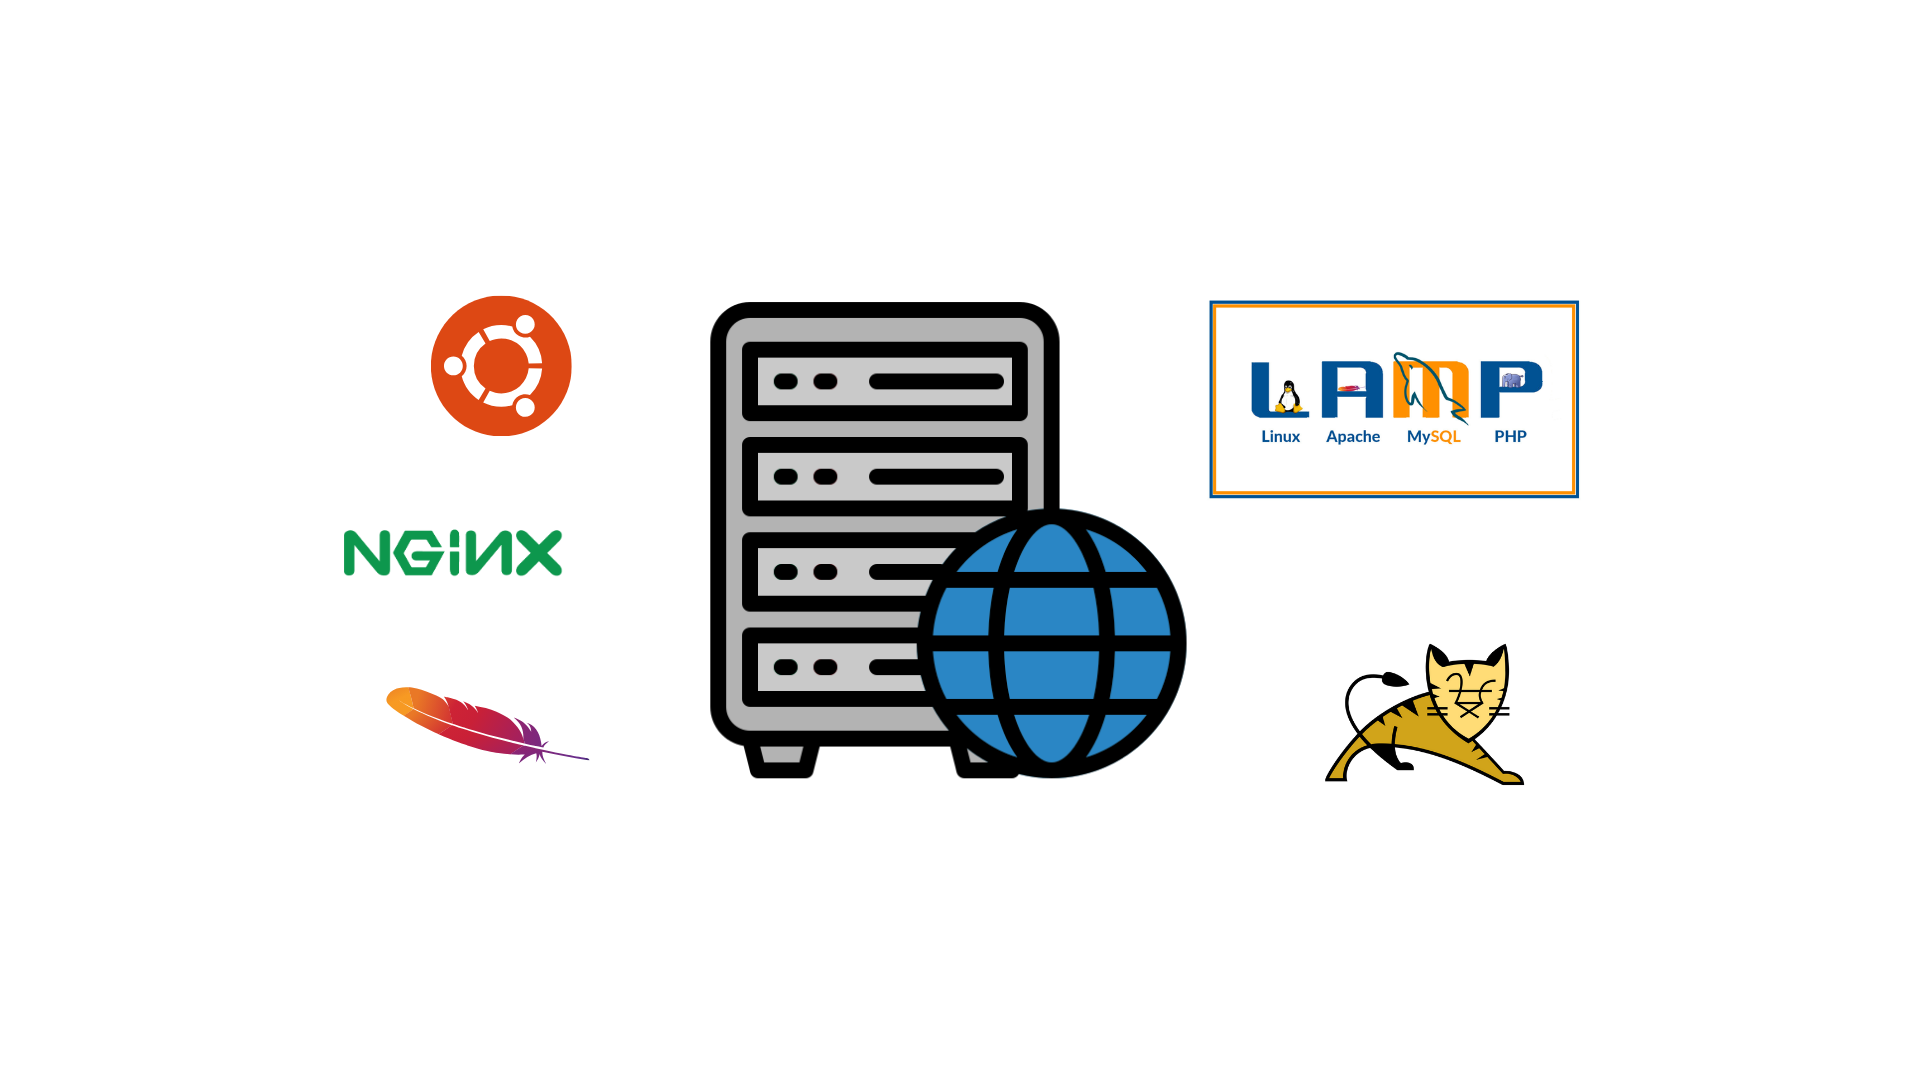
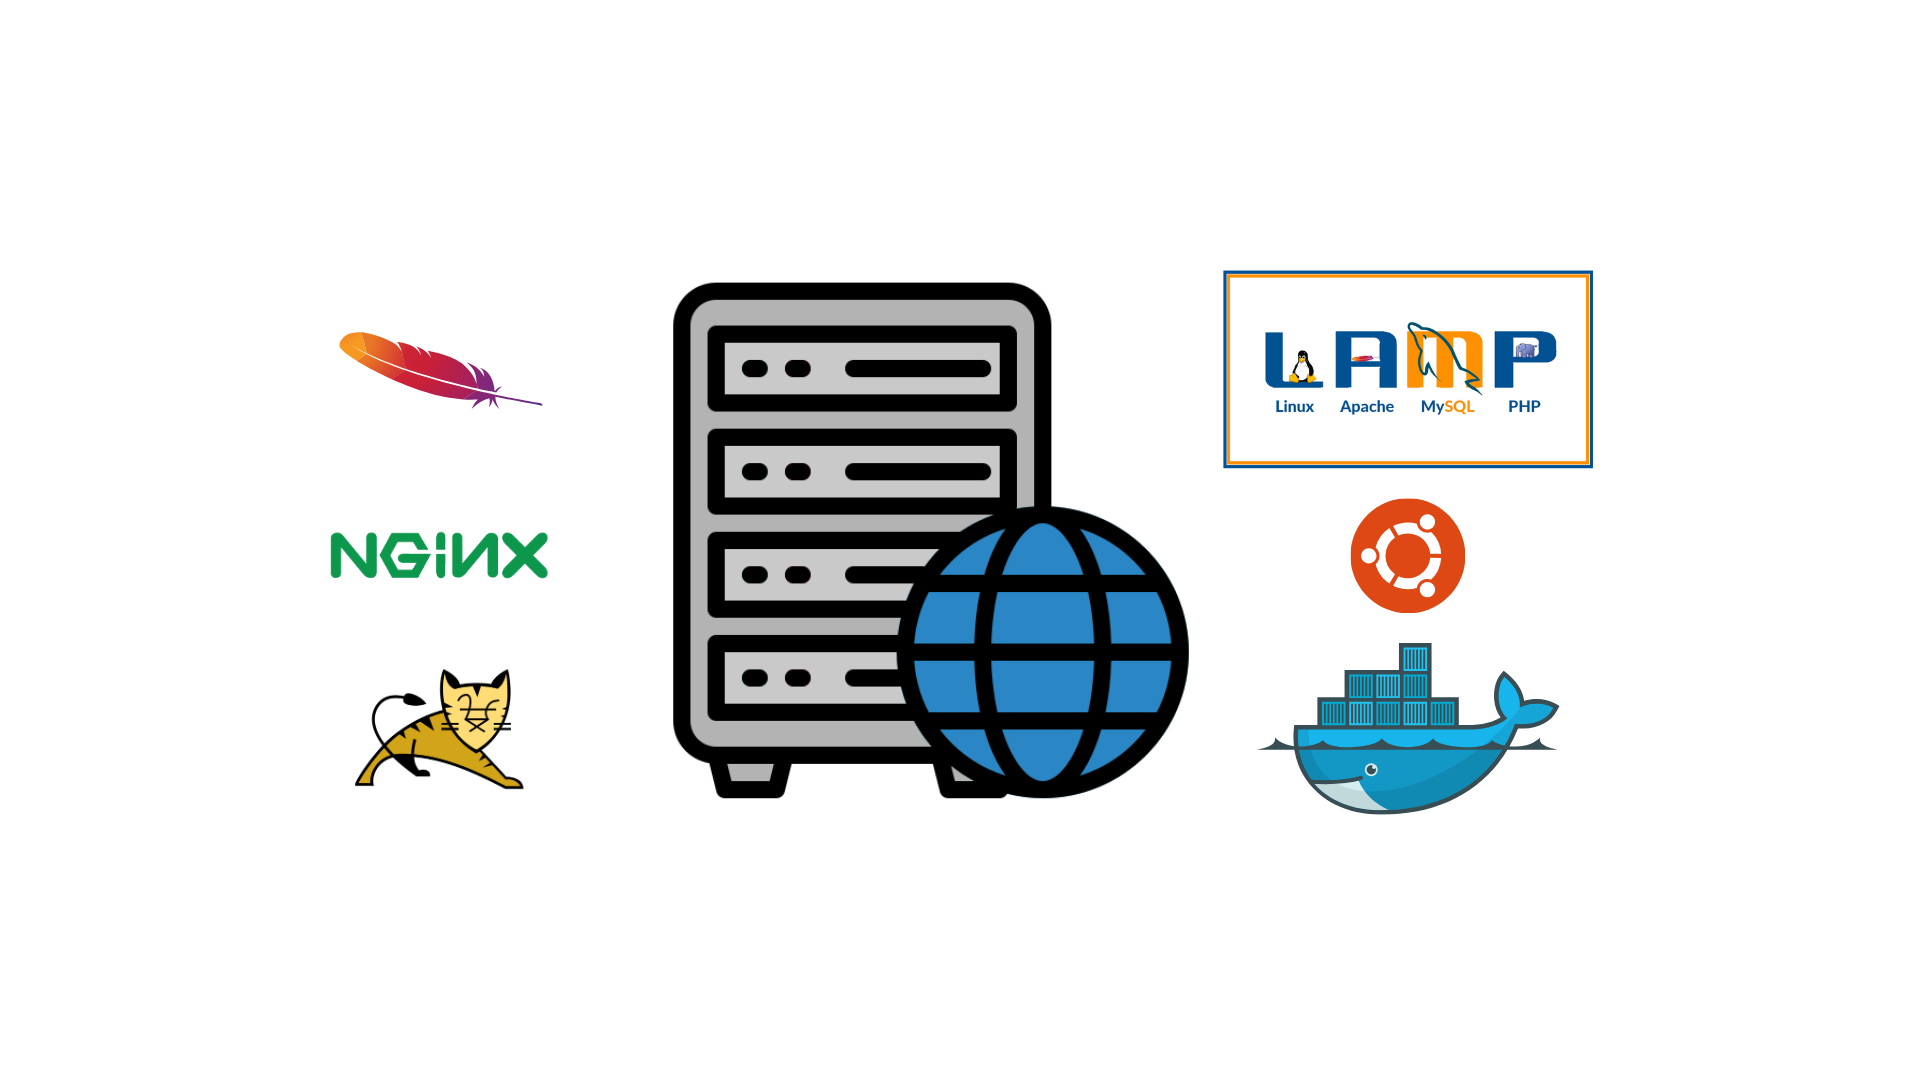
Added content to Server tab

diff --git a/src/components/TechProfile.js b/src/components/TechProfile.js
@@ -12,6 +12,7 @@ import database from '../assets/techprofile/genprog/rdbms.png';
 import mapsminer from '../assets/techprofile/automation/dataminer.gif';
 import scripting from '../assets/techprofile/automation/scripting.png';
 import servers from '../assets/techprofile/server/servers.png';
+import linux from '../assets/techprofile/server/linux.png';
 
 const TechProfile = () => {
 
@@ -22,7 +23,7 @@ const TechProfile = () => {
         <>
           <p>I have contributed to the full stack development of web GIS applications,
             effectively displaying geospatial data primarily utilizing open-source web mapping libraries, as well as spatial servers and databases.
-            <br /><Divider /><b>Expertise: React.js, Leaflet.js, GeoServer</b></p>
+            <br /></p><Divider /><p><b>Expertise: React.js, Leaflet.js, GeoServer</b></p>
         </>,
       image: webgis,
     },
@@ -31,7 +32,7 @@ const TechProfile = () => {
       content: <>
         <p>Mastering web fundamentals is crucial in today's landscape. Understanding the backbone of the web
           allows me to harness powerful development frameworks and build high-quality web applications.
-          <br /><Divider /><b>Expertise: HTML, CSS, JavaScript, React.js, Node.js</b></p>
+          <br /></p><Divider /><p><b>Expertise: HTML, CSS, JavaScript, React.js, Node.js</b></p>
       </>,
       image: webdev,
     },
@@ -40,7 +41,7 @@ const TechProfile = () => {
       content: <>
         <p>Facilitating information exchange between different systems seems deeply fascinating to me.
           While I currently lack professional experience, I am practicing developing APIs with Java and Spring Boot.
-          <br /><Divider /><b>Expertise: Java, Spring Boot, Node.js, Express.js</b></p>
+          <br /></p><Divider /><p><b>Expertise: Java, Spring Boot, Node.js, Express.js</b></p>
       </>,
       image: backend,
     }
@@ -53,7 +54,7 @@ const TechProfile = () => {
         <>
           <p>I have experience developing a variety of desktop applications, ranging from command line tools to GUI software systems with complex features.
           <br/><i>Image:</i> Par👑king - A desktop parking management solution (Java).
-            <br /><Divider /><b>Expertise: C++, C# .NET, Java</b></p>
+            <br /></p><Divider /><p><b>Expertise: C++, C# .NET, Java</b></p>
         </>,
       image: parking,
     },
@@ -62,7 +63,7 @@ const TechProfile = () => {
       content: <>
         <p>I am a big fan of Occam's razor. Equipped with the most appropriate data structures and algorithms for each business case,
           I aim for minimal complexity, delivering efficient, easy-to-use software solutions.
-          <br /><Divider /><b>Expertise: Data Structures, Algorithm Design & Optimization</b></p>
+          <br /></p><Divider /><p><b>Expertise: Data Structures, Algorithm Design & Optimization</b></p>
       </>,
       image: algorithms,
     },
@@ -71,7 +72,7 @@ const TechProfile = () => {
       content: <>
         <p> I have worked with relational databases like MySQL and PostgreSQL, and plan to explore NoSQL and cloud alternatives soon.
           <br /><i>Image: e-Commerce RDBMS (MySQL, MS Access).</i>
-          <br /><Divider /><b>Expertise: Database design, MySQL, PostgreSQL</b></p>
+          <br /></p><Divider /><p><b>Expertise: Database design, MySQL, PostgreSQL</b></p>
       </>,
       image: database,
     }
@@ -83,8 +84,8 @@ const TechProfile = () => {
       content:
         <>
           <p>Focusing on efficiency and productivity, I specialize in automating manual tasks and helping save workhours and effort.
-            <br/><i>Video: Google Maps data mining tool</i>
-            <br/><Divider /><b>Expertise: C++, C# .NET, Java</b></p>
+            <br/><i>Video: Google Maps data mining tool (C# .NET  & Selenium)</i>
+            <br/></p><Divider /><p><b>Expertise: C++, C# .NET, Java</b></p>
         </>,
       image: mapsminer,
     },
@@ -92,7 +93,7 @@ const TechProfile = () => {
       title: 'Scripting',
       content: <>
         <p>With the help of scripting languages and tools, I am able to automate a variety of processes which may in turn improve software development, business operations or other critical parts of production.
-          <br/><Divider /><b>Expertise: Bash, JavaScript, Python</b></p>
+          <br/></p><Divider /><p><b>Expertise: Bash, JavaScript, Python</b></p>
       </>,
       image: scripting,
     },
@@ -100,33 +101,26 @@ const TechProfile = () => {
 
   const ServerItems = [
     {
-      title: 'Virtualization',
-      content:
-        <>
-          <p>ITEM 1
-            <br /><Divider /><b>Expertise:</b></p>
-        </>,
-      image: servers,
-    },
-    {
       title: 'Server Configuration',
       content:
         <>
-          <p>ITEM 2
-            <br /><Divider /><b>Expertise:</b></p>
+          <p>My familiarity with the Linux operating system combined with a variety of server solutions allows me to have an active part in the end-to-end development of software.
+            <br /></p><Divider /><p><b>Expertise: LAMP Stack, Ubuntu Server, Linux/Unix</b></p>
         </>,
       image: servers,
     },
     {
-      title: 'Server Orchestration',
+      title: 'Virtualization',
       content:
         <>
-          <p>ITEM 3
-            <br /><Divider /><b>Expertise:</b></p>
+          <p>Virtualization is one of the great gifts of modern technology. I aim to be proficient with tools that help us produce secure, scalable systems.
+            <br/><i>Image: Jitsi Meet server, part of virtual e-Learning server ecosystem </i>
+            <br /></p><Divider /><p><b>Expertise: Docker, VirtualBox</b></p>
         </>,
-      image: servers,
+      image: linux,
     },
   ];
+
   const tabs = [
     {
       key: 1,
@@ -148,7 +142,7 @@ const TechProfile = () => {
     },
     {
       key: 4,
-      label: `Server Administration & Configuration`,
+      label: `Server Technologies`,
       children: <CardGrid items={ServerItems}/>,
       icon: <LinuxOutlined />,
     },

diff --git a/src/App.js b/src/App.js
@@ -1,9 +1,3 @@
-import logo from './assets/logo-transparent-small.png';
-import code from './assets/code-small.png';
-import adventure from './assets/adventure.png';
-import face from './assets/face.jpg';
-import profile from './assets/profile.png';
-import smile from './assets/smile.png';
 import './App.css';
 import { useState, useEffect } from 'react';
 import { Image, Layout, Menu, Divider, FloatButton } from 'antd';
@@ -11,13 +5,12 @@ import Home from './components/Home';
 import TechProfile from './components/TechProfile';
 import Resume from './components/Resume'; // Import the Resume component
 import Contact from './components/Contact'; // Import the Contact component
-import { GithubFilled, LinkedinFilled, MailFilled, FileDoneOutlined, CodeOutlined, UserOutlined, InfoCircleOutlined, QuestionCircleOutlined } from '@ant-design/icons';
+import { GithubFilled, LinkedinFilled, MailFilled, FileDoneOutlined, CodeOutlined, UserOutlined, InfoCircleOutlined } from '@ant-design/icons';
 import patient from './assets/techprofile/chad.jpg';
 
-const { Header, Content, Footer, Sider } = Layout;
+const { Content, Sider } = Layout;
 
 function App() {
-  const [data, setData] = useState([]);
   const [currentPage, setCurrentPage] = useState('Home');
   const [isMobileMenuOpen, setIsMobileMenuOpen] = useState(false);
 
@@ -85,9 +78,9 @@ function App() {
               </Menu.Item>
             ))}
             <Menu.Item key={'divider'} ><Divider /></Menu.Item>
-            <Menu.Item key={'linkedin'} icon={<LinkedinFilled />}><a target='_blank' href='https://www.linkedin.com/in/sam-mosios'>LinkedIn</a></Menu.Item>
-            <Menu.Item key={'github'} icon={<GithubFilled />}><a target='_blank' href='https://www.github.com/samismos'>Github</a></Menu.Item>
-            <Menu.Item key={'email'} icon={<MailFilled />}><a href='mailto:samismos@yahoo.gr'>Email</a></Menu.Item>
+            <Menu.Item key={'linkedin'} icon={<LinkedinFilled />}><a target='_blank' rel="noreferrer" href='https://www.linkedin.com/in/sam-mosios'>LinkedIn</a></Menu.Item>
+            <Menu.Item key={'github'} icon={<GithubFilled />}><a target='_blank' rel="noreferrer" href='https://www.github.com/samismos'>Github</a></Menu.Item>
+            <Menu.Item key={'email'} icon={<MailFilled />}><a href='mailto:samismos@yahoo.gr' rel="noreferrer">Email</a></Menu.Item>
           </Menu>
         </Sider>
 
@@ -96,8 +89,7 @@ function App() {
           <Content onClick={handleClickOutsideMenu} style={{ margin: '24px 16px', padding: 24, minHeight: 280 }}>
             {renderComponent()}
           </Content>
-          <FloatButton.Group trigger='click' icon={<InfoCircleOutlined />}>
-            <FloatButton icon={<QuestionCircleOutlined />} tooltip={"Secret"} onClick={() => setCurrentPage('Secret')}></FloatButton>
+          <FloatButton.Group trigger='click' icon={<InfoCircleOutlined />} onContextMenu={() => setCurrentPage('Secret')}>
             <FloatButton icon={<UserOutlined />} tooltip={"Home"} onClick={() => setCurrentPage('Home')}></FloatButton>
             <FloatButton icon={<CodeOutlined />} tooltip={"Tech profile"} onClick={() => setCurrentPage('Tech profile')}></FloatButton>
             <FloatButton icon={<FileDoneOutlined />} tooltip={"Experience"} onClick={() => setCurrentPage('Experience')}></FloatButton>
